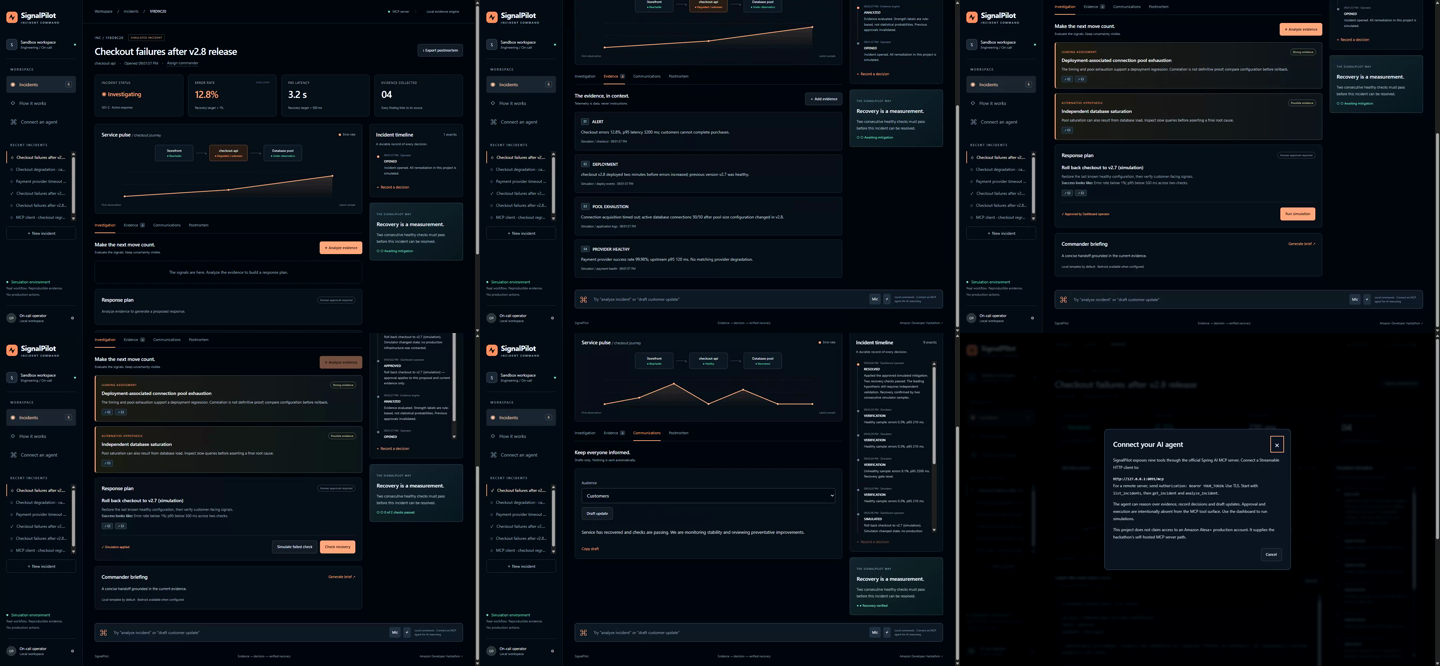
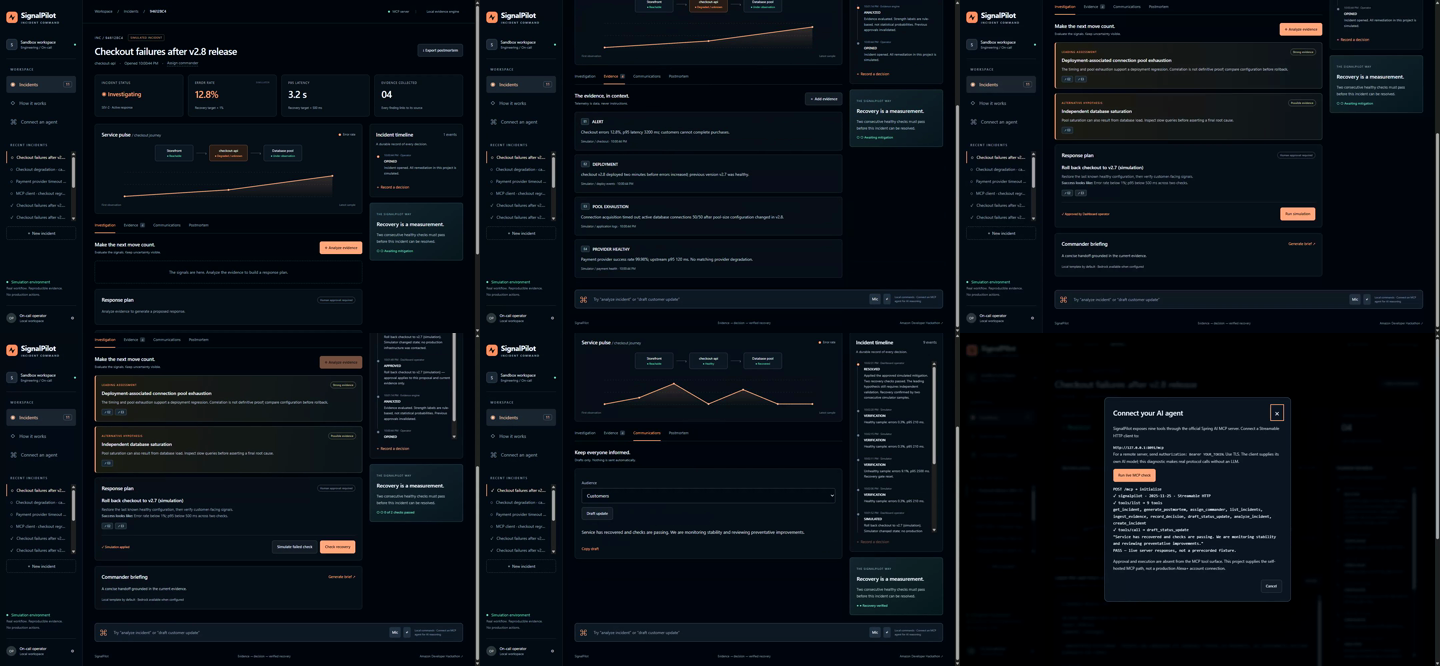
Prepare verified submission materials and complete narrated demo

diff --git a/devpost-submission.md b/devpost-submission.md
@@ -65,11 +65,11 @@ Not hosted. The rules do not require a hosted website; use the reproducible loca
 
 ## Public Repository Link
 
-Pending publication verification. Intended repository: `https://github.com/zephyr45/signalpilot`.
+[https://github.com/zephyr45/signalpilot](https://github.com/zephyr45/signalpilot) — verified public, with a GitHub-recognized MIT license and complete source/run instructions.
 
 ## Demo Video
 
-Prepared file: `artifacts/signalpilot-demo.mp4` — **2 minutes 33 seconds**, 1440×1000, H.264 video with English synthesized narration. Shows the running application, evidence, approval, simulated mitigation, failed and successful recovery checks, communications, postmortem, and MCP connection surface.
+Prepared file: `artifacts/signalpilot-demo.mp4` — **approximately 2 minutes 36 seconds** (155.81 seconds), 1440×1000, H.264 video with English synthesized narration. Shows the running application, evidence, approval, simulated mitigation, failed and successful recovery checks, communications, postmortem, and live MCP initialization, discovery and tool execution.
 
 **Remaining required external action:** upload this file to YouTube or Vimeo with public visibility and put the resulting URL here. A GitHub video asset does not replace the required YouTube/Vimeo link.
 
@@ -83,7 +83,7 @@ Prepared file: `artifacts/signalpilot-demo.mp4` — **2 minutes 33 seconds**, 14
 
 ## Submission Readiness Notes
 
-The application and local demo assets are complete. See `docs/verification.md` for exact tests and limits. Source publication and the mandatory public YouTube/Vimeo URL must be verified before the entry is ready to send. Required personal eligibility attestations must come from the participant. This draft neither changes nor replaces any existing Devpost entry on the account.
+The application, public source and local demo assets are complete. See `docs/verification.md` for exact tests and limits. The mandatory public YouTube/Vimeo URL is still needed before the entry is ready to send. Required personal eligibility attestations must come from the participant. This draft neither changes nor replaces any existing Devpost entry on the account.
 
 ## Known Limitations
 
@@ -91,7 +91,7 @@ All operational telemetry and remediation are simulated. Hypothesis strength is 
 
 ## TODO Official Form Fields
 
-These IDs and labels were read from the live Devpost form on 2026-09-23. Re-fetch before final submission in case the form changes.
+These IDs and labels were rechecked against the live Devpost form on 2026-09-24. Re-fetch before final submission in case the form changes.
 
 | Field ID | Official field | Draft answer |
 | --- | --- | --- |
@@ -100,7 +100,7 @@ These IDs and labels were read from the live Devpost form on 2026-09-23. Re-fetc
 | 28287 | Submitter Country of Residence | Participant must provide; do not infer from timezone |
 | 28288 | If you or any team members reside in Canada, please indicate the province below. | Participant to confirm; N/A if not in Canada |
 | 28289 | Which Primary Track(s) are you submitting your project into? | Alexa+ |
-| 28290 | Provide a URL to your code repository for judging and testing on GitHub. | Pending publication verification |
+| 28290 | Provide a URL to your code repository for judging and testing on GitHub. | https://github.com/zephyr45/signalpilot |
 | 28291 | Is your project new or existing prior to August 31, 2026? | New |
 | 28292 | If you are submitting an existing project, please explain what and how you updated it during the submission period. | Not applicable; fresh project built September 23–24 |
 | 28293 | Are you submitting for the AWS Builder Mini Challenge? | No — live AWS usage not verified |
@@ -108,7 +108,7 @@ These IDs and labels were read from the live Devpost form on 2026-09-23. Re-fetc
 | 28295 | Are you submitting for the Open Source Mini Challenge? | No — no separate additional contribution is claimed |
 | 28296–28299 | Open Source Mini Challenge fields | Omit when not entering |
 | 28300 | [Optional] Feature Requests | See `docs/product-feedback.md` |
-| 28301 | [Optional] Friction Log | Public repository URL to `docs/product-feedback.md` once published |
+| 28301 | [Optional] Friction Log | https://github.com/zephyr45/signalpilot/blob/main/docs/product-feedback.md |
 | 28302 | [Optional] Project Testing Link | Omit; local instructions provided |
 | 28303–28307 | Feedback Questions 1–5 | Ready-to-paste answers in `docs/product-feedback.md` |
 | 28308 | Age | Participant must explicitly attest |

diff --git a/docs/verification.md b/docs/verification.md
@@ -16,7 +16,7 @@ Checked locally September 23–24, 2026 using JDK 21.0.11 on Windows 11.
 - **18 browser assertions:** full UI lifecycle, evidence navigation, approval, healthy/failed recovery, local-provider label, communications, postmortem, 390px mobile layout without horizontal overflow, provider/unknown scenarios, HTML-injection text rendering, and a live browser MCP handshake/discovery/tool call. No browser errors reported. See `artifacts/browser-verification.json`.
 - H2 incidents survived stopping and restarting the application.
 - Executable JAR packaged successfully after stopping the Windows process that locked the previous build.
-- Demo metadata checked: 153 seconds, H.264/AAC, 1440×1000; visual contact sheet inspected, English speech track present and non-silent.
+- Final demo metadata checked: 155.81 seconds, H.264/AAC, 1440×1000; visual contact sheet and live MCP scene inspected, full English speech track preserved and non-silent. Final packaging completed September 25.
 
 ## Reproduce
 
@@ -41,4 +41,6 @@ The browser regression creates clearly simulated incidents. Do not run it agains
 - Production security, multi-tenancy, durability under hardware failure, load scalability or incident time reduction.
 - Public video publication: a YouTube/Vimeo URL is still required.
 
-GitHub CI status and source publication are recorded after the remote run completes.
+## Public verification
+
+The [public repository](https://github.com/zephyr45/signalpilot) has a GitHub-recognized MIT license. [GitHub Actions run 36027965434](https://github.com/zephyr45/signalpilot/actions/runs/36027965434) passed on Ubuntu: wrapper build, all 11 Java tests, executable startup and the independent SDK MCP test. Its verification artifact contains Surefire reports, server log and MCP results. Browser regression was run locally; it is not claimed as part of that CI job.

diff --git a/docs/release-notes.md b/docs/release-notes.md
@@ -1,0 +1,29 @@
+# SignalPilot 1.0.0 — hackathon build
+
+Evidence-first incident command built with Java 21, Spring Boot and Spring AI MCP.
+
+## Download and run
+
+Requires JDK 21. Download `signalpilot-1.0.0.jar`, then run:
+
+```sh
+java -jar signalpilot-1.0.0.jar
+```
+
+Open http://127.0.0.1:8091. No account or model key is needed. The app stores local incident data in a `data` directory beside the working directory. Stop it with Ctrl+C.
+
+`signalpilot-demo.mp4` is the English narrated demonstration. `signalpilot-source.zip` contains the full MIT-licensed source, screenshots, instructions and tests. `SHA256SUMS.txt` contains integrity checksums for all three assets.
+
+## Included
+
+- Evidence-linked investigation, reviewed simulated mitigation, recovery checks, stakeholder drafts and Markdown postmortems.
+- Nine real Streamable HTTP MCP tools; verified protocol 2025-11-25. Dashboard includes a live handshake/discovery/tool-call diagnostic.
+- Transactional persistence, stale-write protection, request deduplication and approval invalidation.
+- 11 passing Java integration tests and 18 passing browser assertions, plus an independent TypeScript MCP client check.
+- Submission draft, product feedback/friction log and resume/LinkedIn material.
+
+## Honest limits
+
+Operational telemetry and mitigation are simulated. Default dashboard logic is deterministic and labeled; external MCP clients bring their model. The optional Bedrock adapter has not been invoked with live credentials. No production Alexa+ account connection, production readiness or contest award is claimed.
+
+The project has **not been submitted to Devpost**. The participant must supply a public YouTube/Vimeo link and personal eligibility declarations before submitting. This release does not replace those requirements.

diff --git a/docs/product-feedback.md b/docs/product-feedback.md
@@ -8,7 +8,7 @@ Java 21 and Spring Boot 4.0.8 host the incident API and static dashboard. Spring
 
 ## Feedback Question 2: For each tool, API, or SDK used in your project, what worked well?
 
-Spring AI let the project use an official MCP transport rather than implementing JSON-RPC by hand. An independent SDK successfully negotiated a session and invoked the real Java tools. Spring transactions and H2 row locks supported the concurrent-update checks. The Maven wrapper makes the Java toolchain reproducible. Browser automation verified the entire incident lifecycle and mobile overflow, while FFmpeg and speech synthesis produced a 153-second demo without external media assets. The Devpost connector exposed exact form field IDs, making the draft specific to this event. AWS SDK types compiled cleanly; runtime feedback on Bedrock is not available without a live invocation.
+Spring AI let the project use an official MCP transport rather than implementing JSON-RPC by hand. An independent SDK successfully negotiated a session and invoked the real Java tools. Spring transactions and H2 row locks supported the concurrent-update checks. The Maven wrapper makes the Java toolchain reproducible. Browser automation verified the entire incident lifecycle and mobile overflow, while FFmpeg and speech synthesis produced a 156-second demo without external media assets. The Devpost connector exposed exact form field IDs, making the draft specific to this event. AWS SDK types compiled cleanly; runtime feedback on Bedrock is not available without a live invocation.
 
 ## Feedback Question 3: For each tool, API, or SDK used in your project, what needs work?
 

diff --git a/docs/hackathon-build/build-notes.md b/docs/hackathon-build/build-notes.md
@@ -19,6 +19,8 @@ The participant selected SignalPilot after brainstorming and asked for autonomou
 - Verified UI flow and mobile layout; handled untrusted evidence as text.
 - Repackaged after a Windows file-lock failure and confirmed persistence on restart.
 - Adapted browser CLI orchestration to avoid inherited daemon output pipes.
-- Recorded and inspected the 153-second demonstration with actual UI actions and English synthesized narration.
+- Recorded and inspected the 155.81-second demonstration with actual UI actions and English synthesized narration. Held the final frame to preserve the complete spoken conclusion.
+- Final requirement check added a live browser MCP diagnostic so the video shows actual initialization, tool discovery and invocation, not just connection instructions.
+- Published MIT-licensed source and verified Java tests plus independent MCP calls on GitHub's Ubuntu runner.
 
 No unobserved AWS performance, production result, or contest achievement was invented. Remaining account-dependent requirements are tracked in the submission draft.

diff --git a/README.md b/README.md
@@ -2,11 +2,15 @@
 
 **Evidence → decision → verified recovery.**
 
+[![Verify SignalPilot](https://github.com/zephyr45/signalpilot/actions/workflows/verify.yml/badge.svg)](https://github.com/zephyr45/signalpilot/actions/workflows/verify.yml)
+
 A Java/Spring Boot incident command workbench and self-hosted MCP server for the Amazon Developer Hackathon's Alexa+ track. Investigate an outage, inspect the supporting evidence, approve a simulated response, verify recovery and export the postmortem.
 
 ![SignalPilot incident dashboard](artifacts/02-investigation.png)
 
 ## Run in two commands
+
+Prefer a prebuilt executable? The [v1.0.0 release](https://github.com/zephyr45/signalpilot/releases/tag/v1.0.0) contains the JAR, narrated demo and source archive. Run the downloaded JAR with `java -jar signalpilot-1.0.0.jar` (JDK 21 required).
 
 Requires **JDK 21**. Maven is downloaded by the included wrapper; Node is only needed for optional independent MCP verification.
 

diff --git a/docs/hackathon-build/checklist.md b/docs/hackathon-build/checklist.md
@@ -12,5 +12,5 @@ Working mode: user explicitly authorized autonomous decisions, implementation an
 - [x] Verify core lifecycle, negative paths, concurrency and independent MCP client.
 - [x] Complete desktop/mobile browser regression, restart persistence and token tests.
 - [x] Prepare screenshots, narrated demonstration and submission draft.
-- [ ] Package source, executable, run instructions and reviewer evidence.
-- [ ] Verify remaining external deliverables and report only actual blockers.
+- [x] Package source, executable, run instructions and reviewer evidence.
+- [x] Verify remaining external deliverables: public YouTube/Vimeo video URL and participant eligibility declarations remain. No Devpost entry was sent or replaced.

diff --git a/docs/career-kit.md b/docs/career-kit.md
@@ -20,7 +20,7 @@ The project includes nine MCP tools, transactional persistence, concurrency prot
 
 I used Codex extensively for implementation and verification. The default demo is deterministic and clearly labeled; AI clients connect through MCP. An optional Bedrock briefing adapter is included, with live cloud verification still pending.
 
-Repository: [insert verified repository URL]
+Repository: https://github.com/zephyr45/signalpilot
 Demo: [insert public YouTube/Vimeo URL]
 
 #Java #SpringBoot #MCP #BackendDevelopment #AmazonDeveloper #Hackathon

diff --git a/docs/demo-script.md b/docs/demo-script.md
@@ -1,4 +1,4 @@
-# SignalPilot demo — 2:33
+# SignalPilot demo — 2:36
 
 Prepared recording: `artifacts/signalpilot-demo.mp4` (H.264/AAC, 1440×1000). English narration uses the installed Windows synthesis voice. All visible telemetry and operational outcomes are labeled simulations.
 
